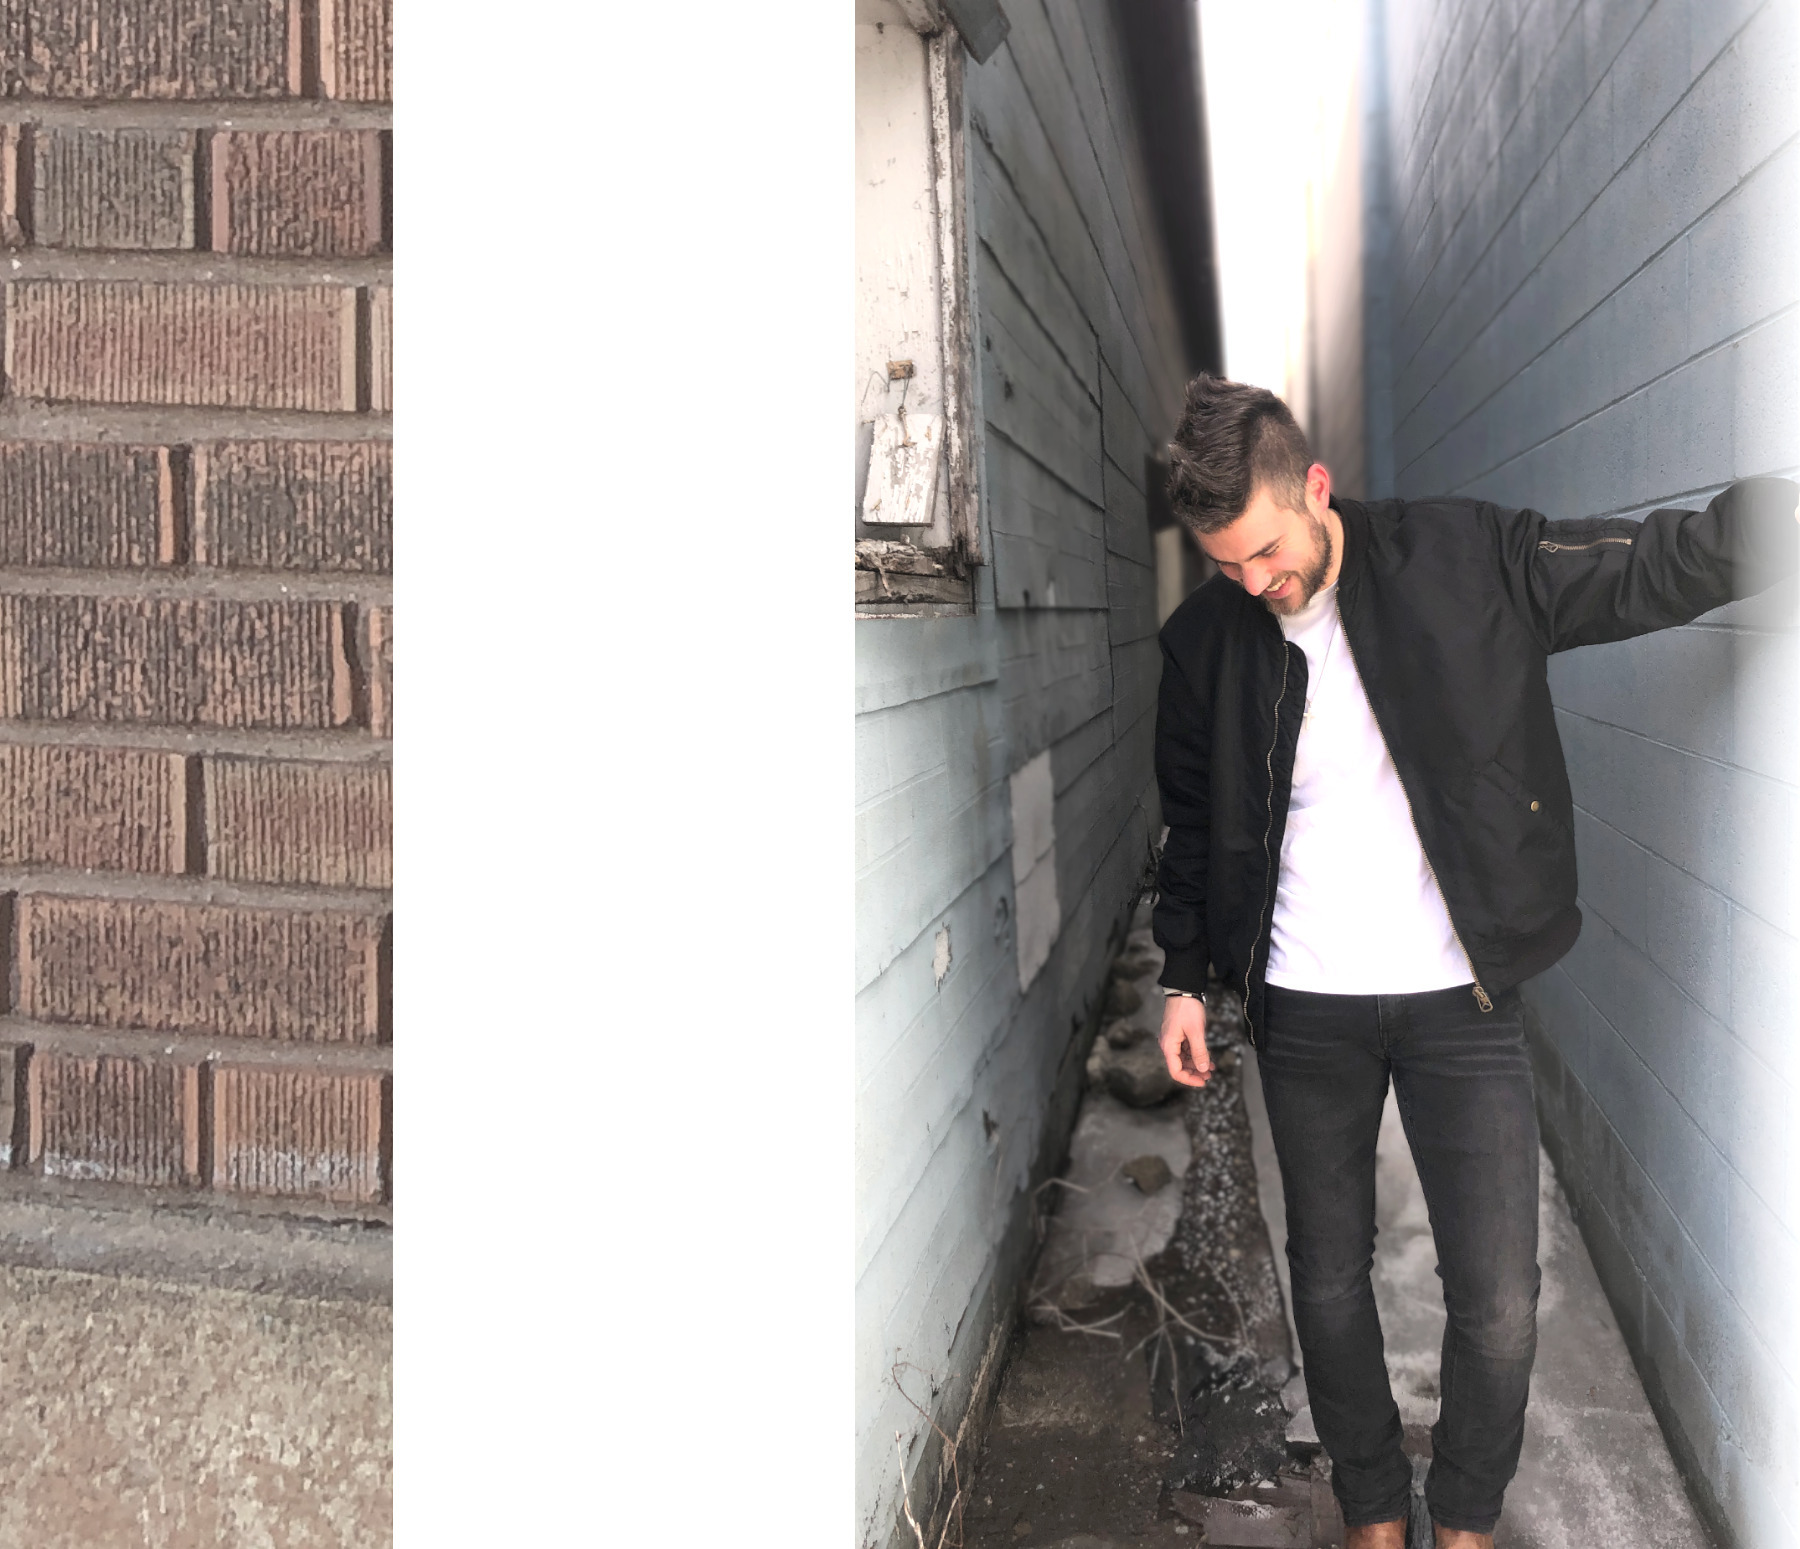
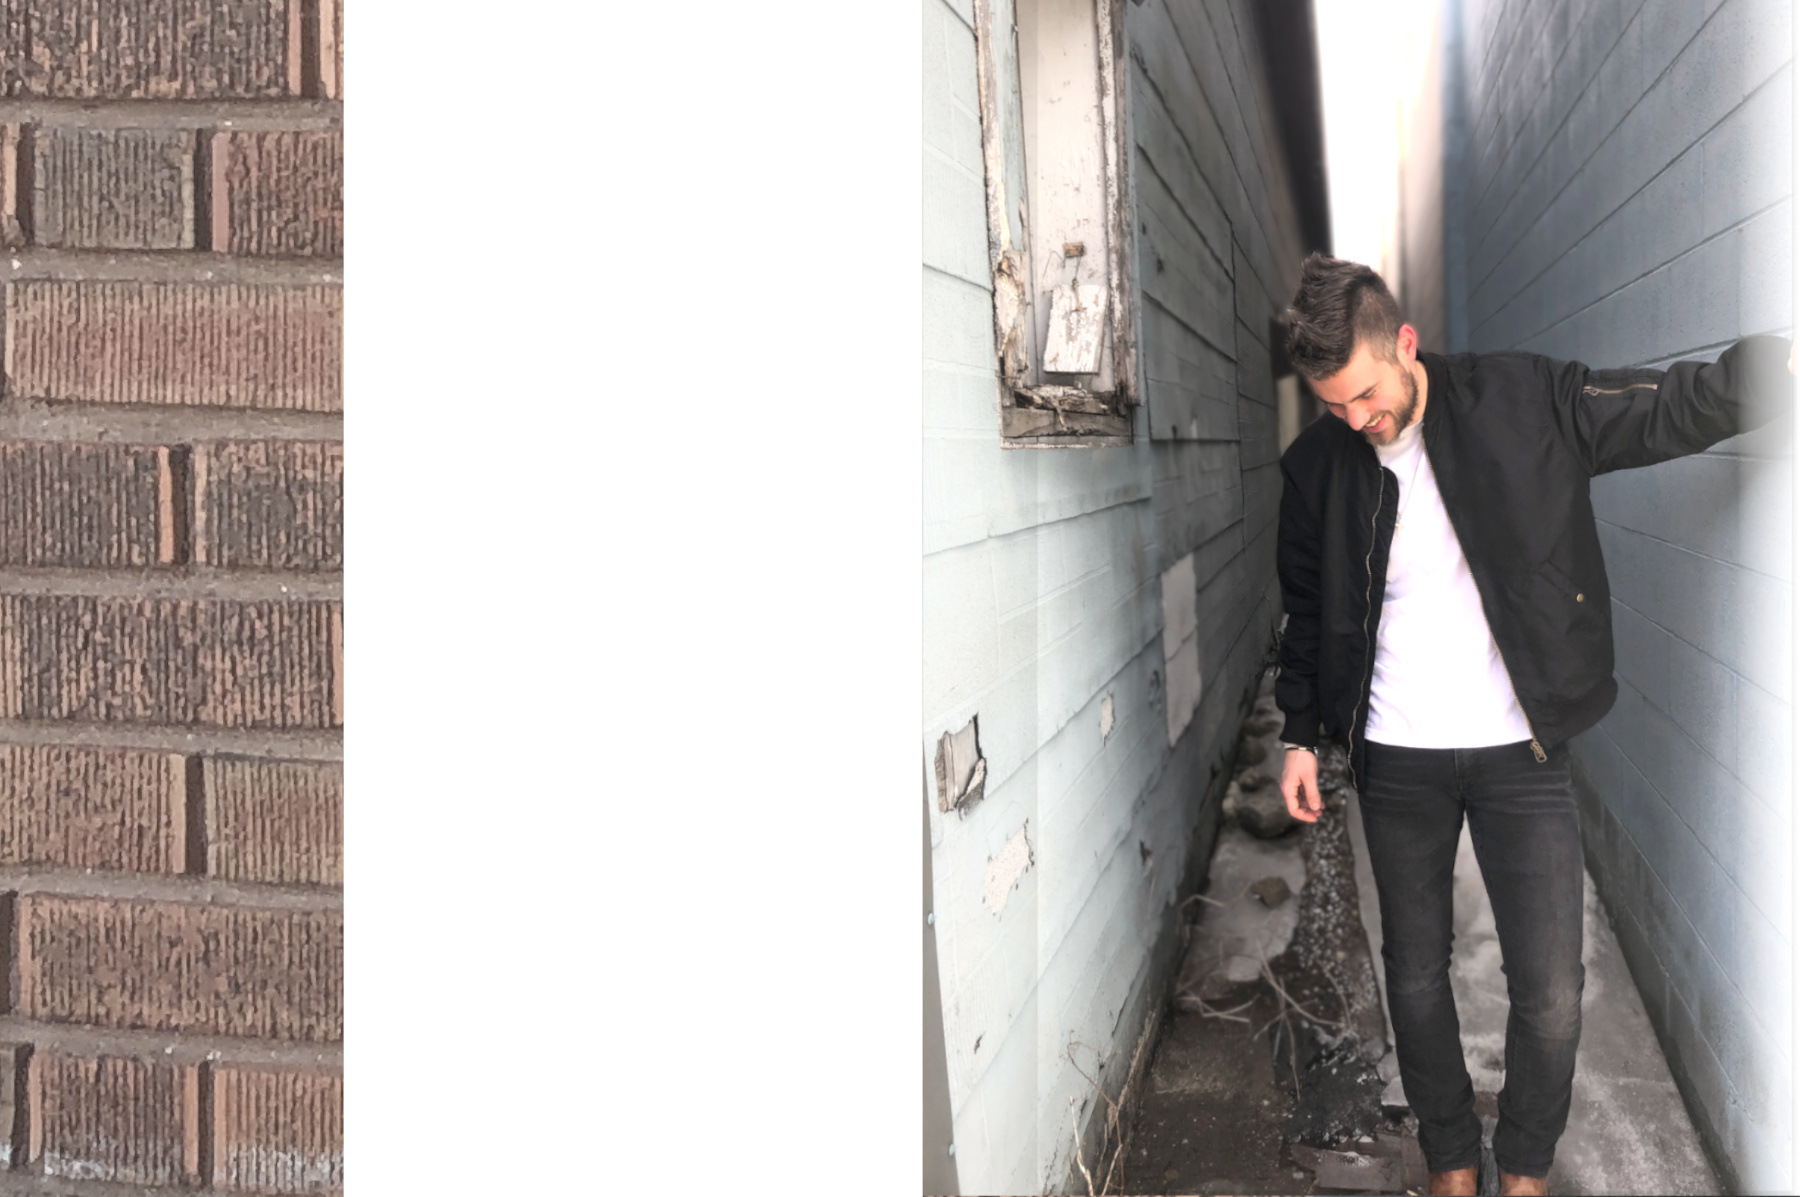
fixed background

diff --git a/index.html b/index.html
@@ -3,7 +3,7 @@
   <head>
     <meta name="viewport" content="width=device-width, initial-scale=1.0">
     <meta charset="utf-8">
-    <title>T J  M O R R O W | Official Site</title>
+    <title>T J  M O R R O W | Official Webite</title>
     <link rel="stylesheet" href="https://stackpath.bootstrapcdn.com/bootstrap/4.2.1/css/bootstrap.min.css" integrity="sha384-GJzZqFGwb1QTTN6wy59ffF1BuGJpLSa9DkKMp0DgiMDm4iYMj70gZWKYbI706tWS" crossorigin="anonymous">
     <link href="https://stackpath.bootstrapcdn.com/font-awesome/4.7.0/css/font-awesome.min.css" rel="stylesheet" integrity="sha384-wvfXpqpZZVQGK6TAh5PVlGOfQNHSoD2xbE+QkPxCAFlNEevoEH3Sl0sibVcOQVnN" crossorigin="anonymous">
     <link rel="stylesheet" href="style.css">
@@ -15,11 +15,8 @@
         <span class="sr"></span>
       </h1>
       <h2 class="text-center">New EP out now</h2>
-      <!-- <span>Live and Learn</span>
-      <span>+</span>
-      <span>F150 Flashback</span> -->
       <div class="container text-center">
-        <a href="#" class="btn" target="_blank">Listen</a>
+        <a href="http://hyperurl.co/BrandNewMe_JM" class="btn" target="_blank">Listen</a>
       </div>
     </header>
 

diff --git a/style.css b/style.css
@@ -8,8 +8,11 @@
 
 body {
   text-transform: uppercase;
-  background: #fff url("../images/body-bg2.jpg") 0 0 no-repeat;
-  background-size: 100vh;
+  /* background: #fff url("../images/body-bg2.jpg") 0 0 no-repeat; */
+  background: no-repeat;
+  background-image: url("../images/body-bg2.jpg");
+  background-size: cover;
+  height: 100vh;
   background-attachment: fixed;
   color: #000;
 }
@@ -20,6 +23,7 @@ body {
   max-width: 43.75rem;
   padding: 1.875rem 3.4375rem 1.25rem;
   text-align: center;
+  padding-bottom: 3rem;
 }
 
 #masthead span {
@@ -89,6 +93,7 @@ video {
   margin-left: 17.8125rem;
   max-width: 43.75rem;
   padding: 0 3.4375rem;
+  padding-bottom: 2rem;
 }
 
 #main > iframe {
@@ -173,11 +178,21 @@ footer {
 
   #masthead {
     margin-left: 10%;
+    max-width: 40rem;
+  }
+
+  #masthead h2 {
+    font-size: 2.1rem;
+  }
+
+  .btn {
+    font-size: 1.2rem;
   }
 
   #main,
   #footer  {
     margin-left: 10%;
+    max-width: 40rem;
   }
 }
 
